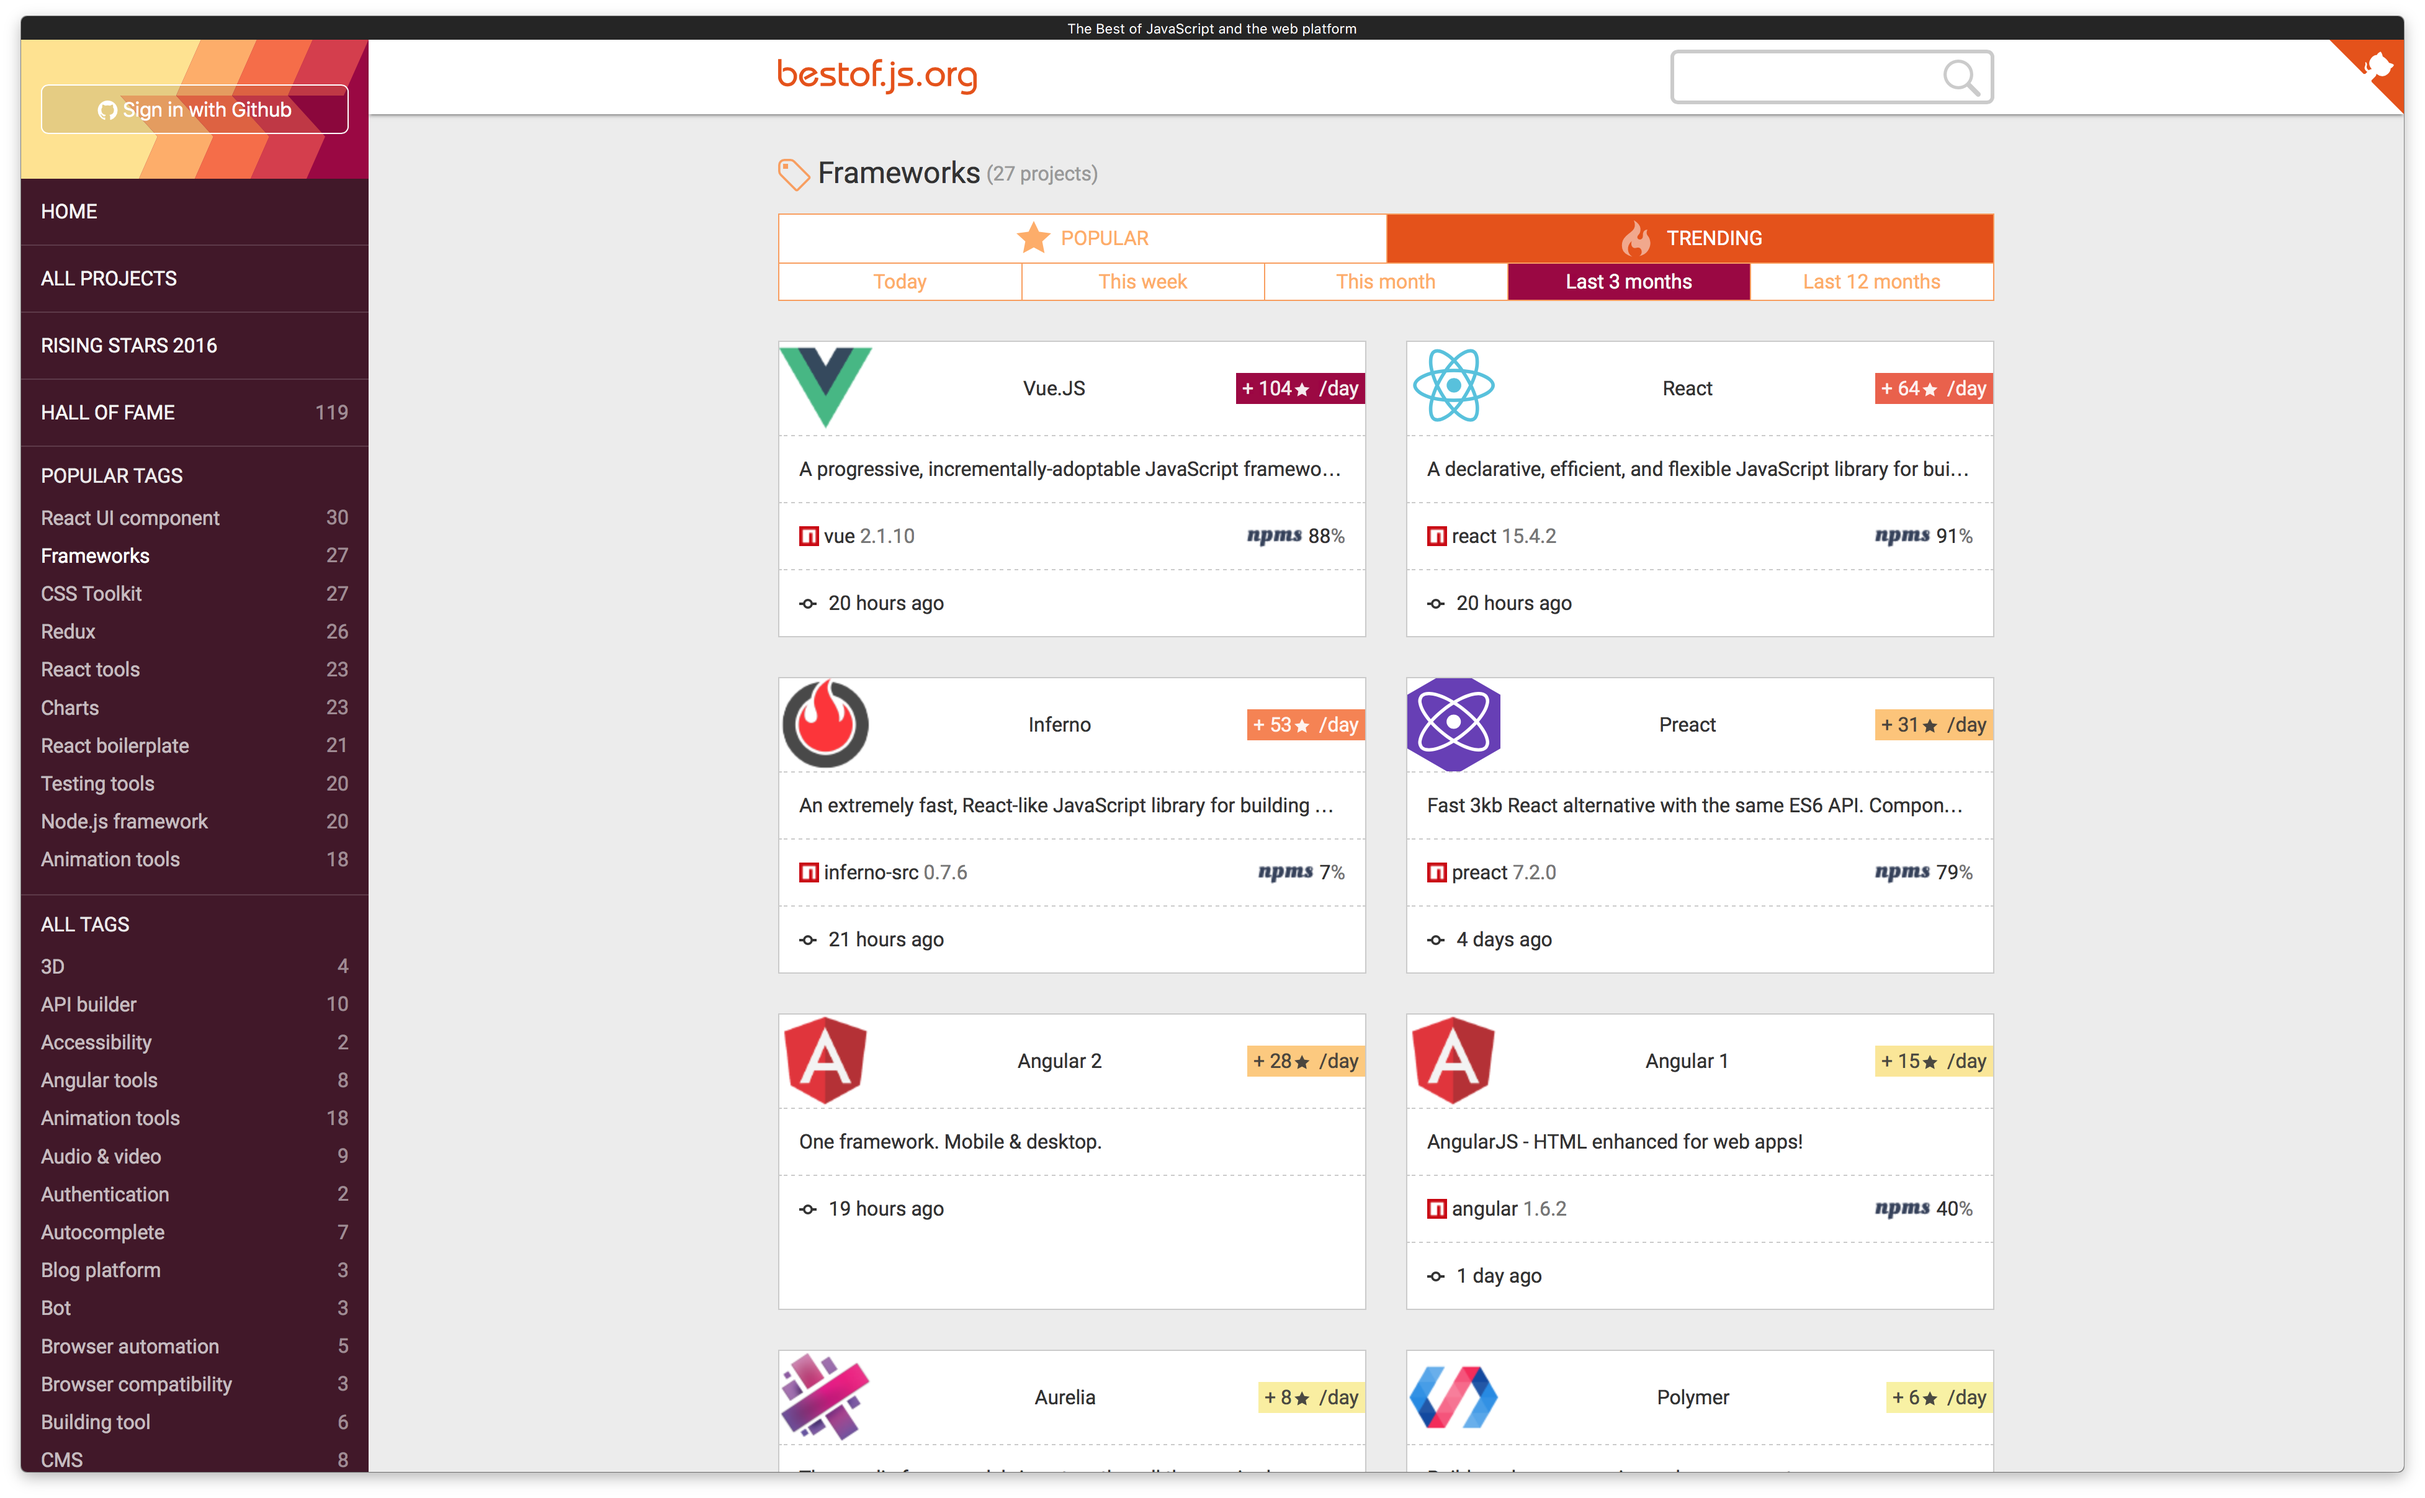
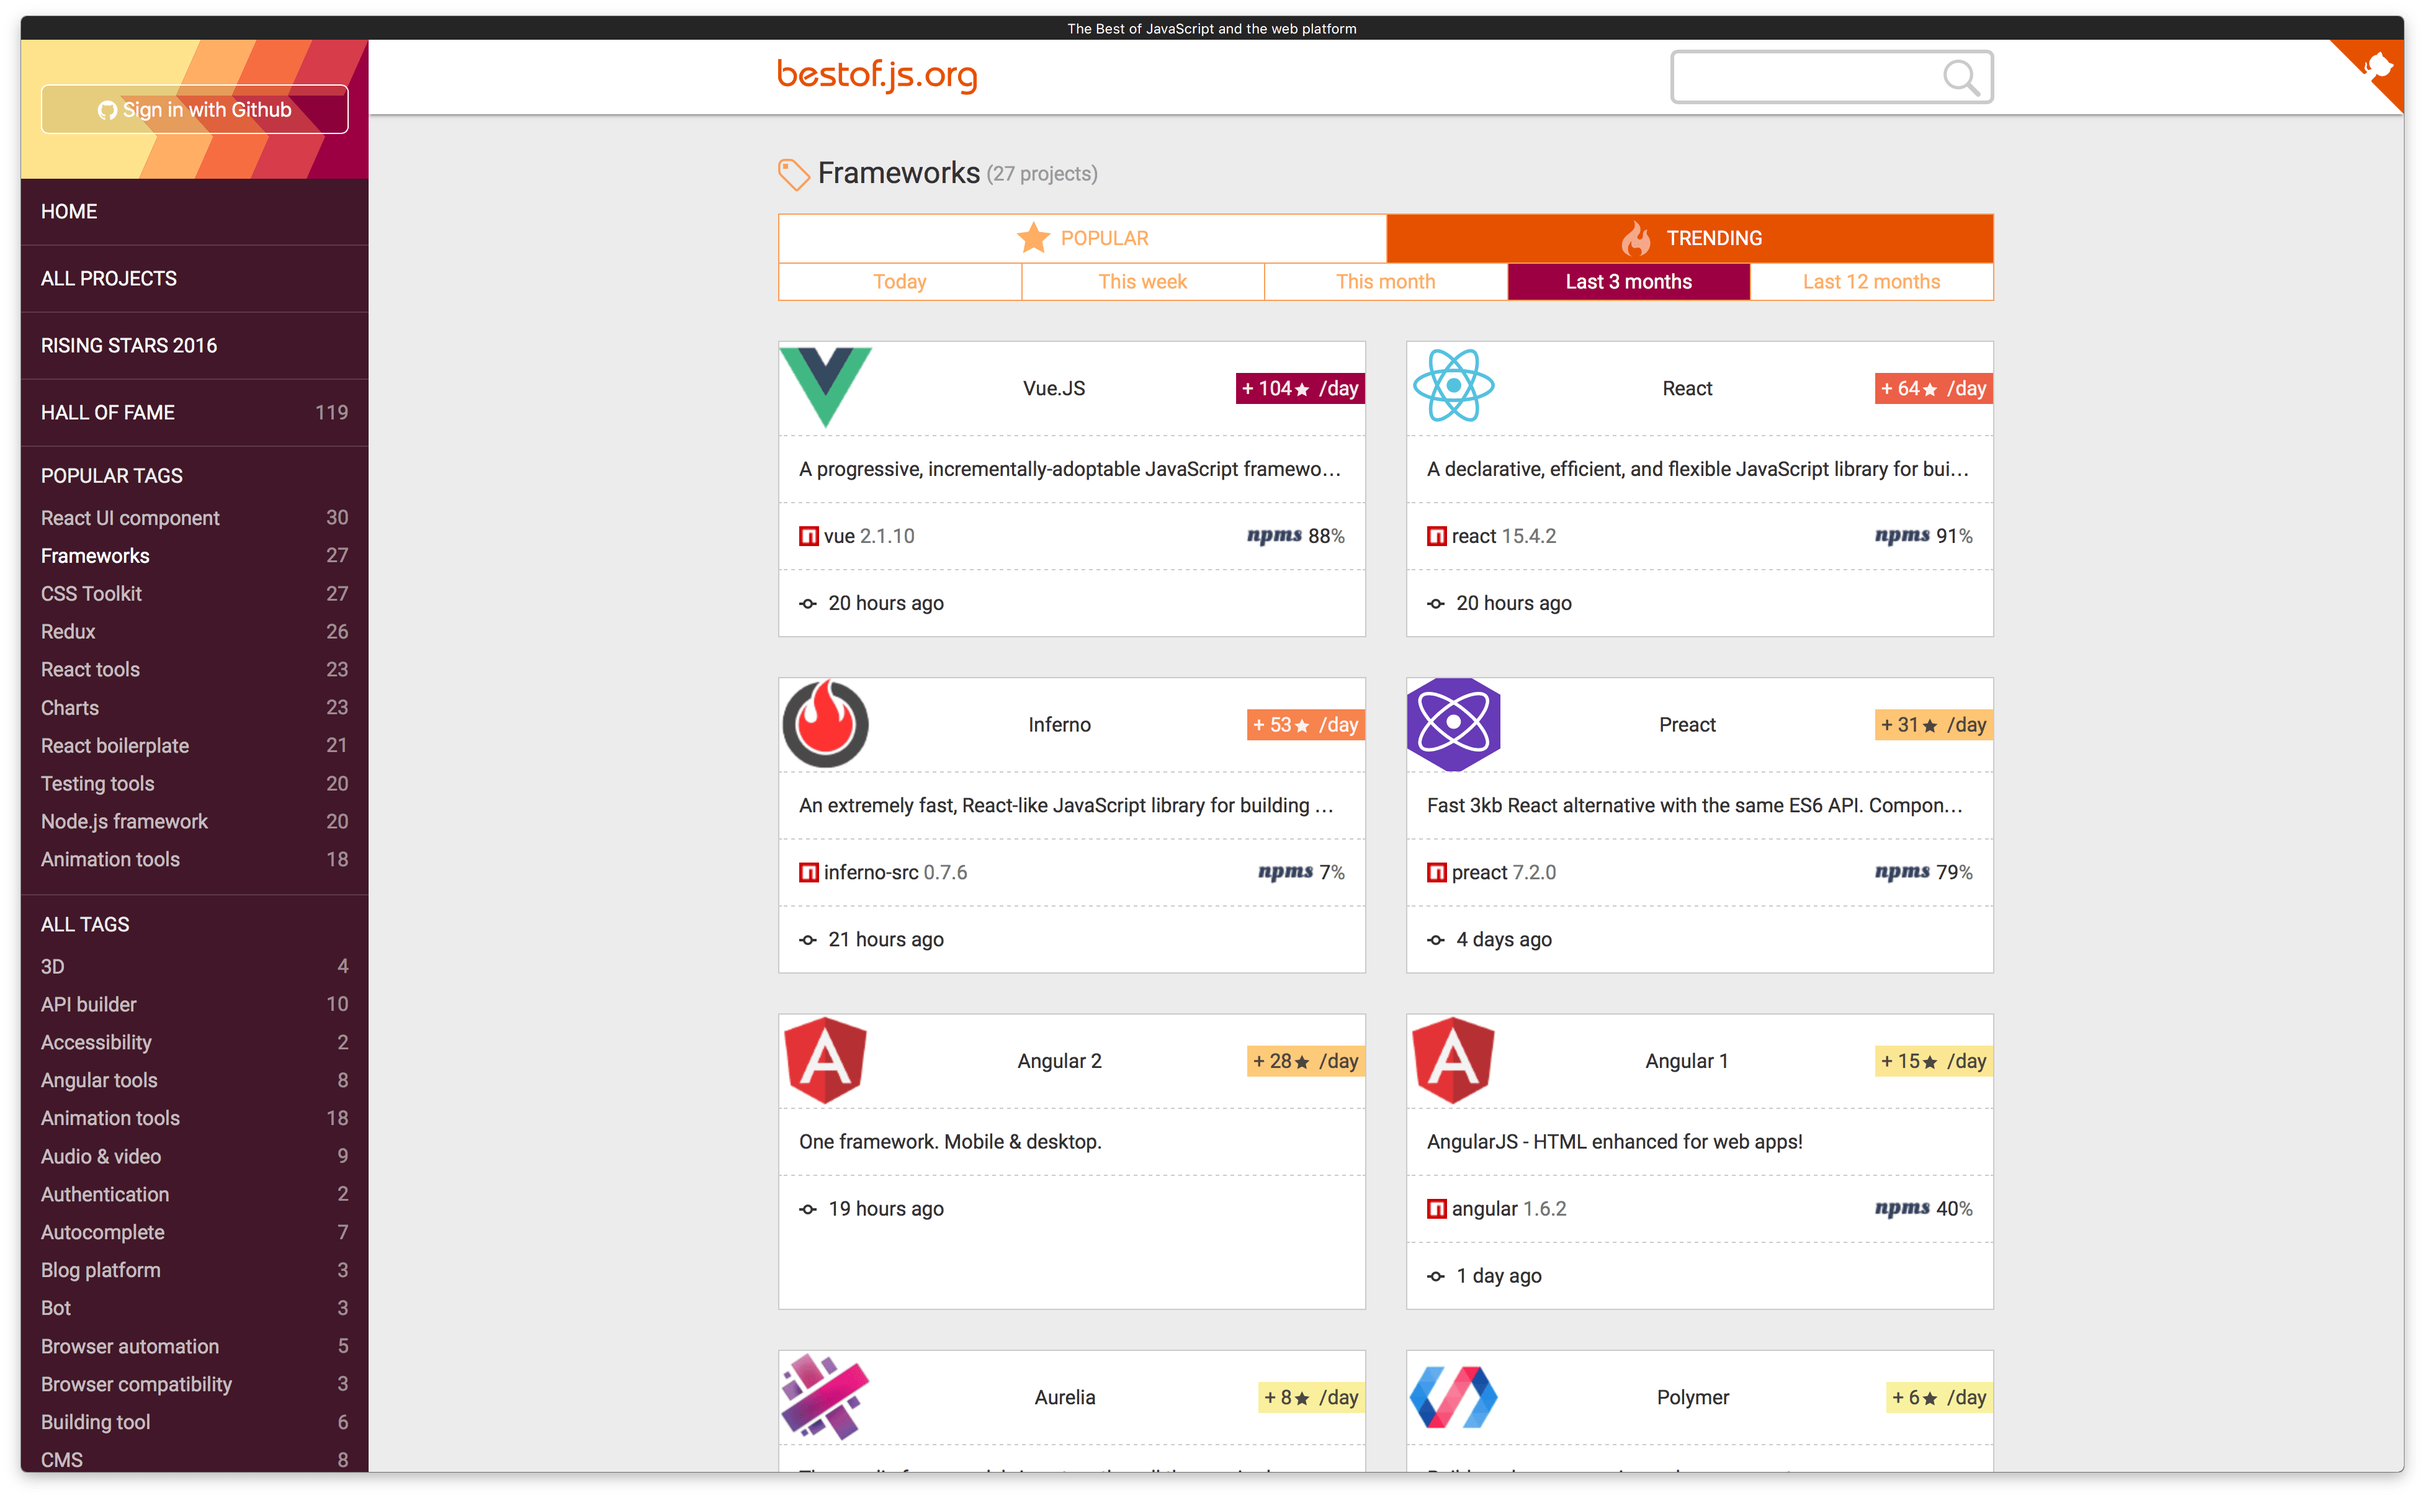
Optimalizaation of images

Changed region(s): [[0.5619, 0.1243, 0.8429, 0.1864], [0.3122, 0.0311, 0.4058, 0.0621], [0.9678, 0.0, 0.999, 0.0621]]

diff --git a/slides/basics/index.html b/slides/basics/index.html
@@ -3,7 +3,7 @@
 <head>
   <meta charset="UTF-8">
   <meta name="viewport" content="width=device-width initial-scale=1 user-scalable=no" />
-  <title>Spectacle Boilerplate</title>
+  <title>MJR - VueJS</title>
   <link href="https://fonts.googleapis.com/css?family=Montserrat:400,700" rel="stylesheet">
   <link rel="stylesheet" type="text/css" href="https://cdn.jsdelivr.net/prism/1.3.0/themes/prism-tomorrow.css">
 </head>
